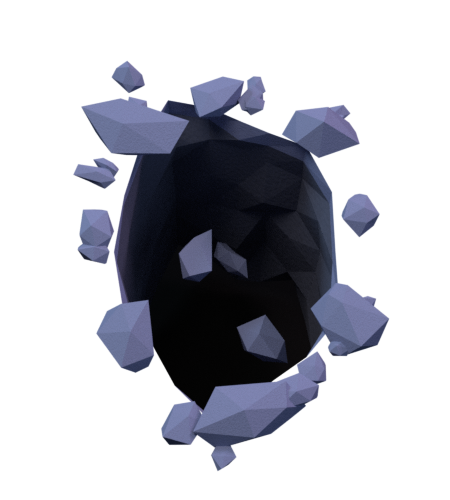
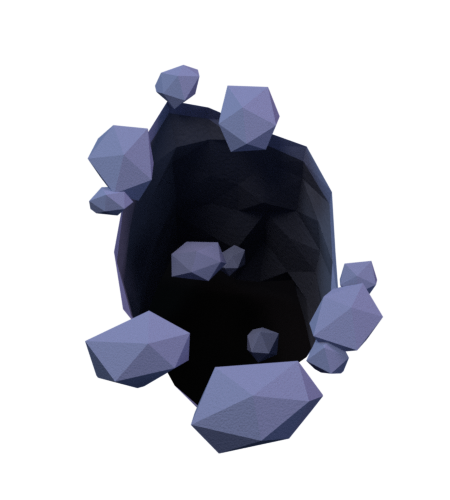
feat: draw fewer, larger rocks around and below sprite Collapse pits
Rocks around a pit and those fallen onto the floor below were small
enough to read as gravel in the game view. Use fewer, larger rocks with
less spiky shapes; the fallen rocks stay smaller than a Golem's rubble.

diff --git a/dev-samples/3d-stage1/build-pit.py b/dev-samples/3d-stage1/build-pit.py
@@ -45,16 +45,13 @@ SHAFT_COLOR = (0.10, 0.11, 0.16)
 EDGE_POINTS = 18
 # Rocks around the edge: (angle in degrees from east, counterclockwise;
 # distance from the centre as a fraction of the hole's radii; size).
-ROCKS = ((-80, 1.12, 0.13), (-55, 1.18, 0.08), (-110, 1.10, 0.09),
-         (-150, 1.08, 0.12), (175, 1.15, 0.07), (140, 1.05, 0.10),
-         (95, 1.02, 0.08), (40, 1.08, 0.11), (10, 1.20, 0.07),
-         (-20, 1.10, 0.10))
-RUBBLE = 14
+ROCKS = ((-75, 1.12, 0.17), (-140, 1.08, 0.14), (-20, 1.10, 0.13),
+         (150, 1.02, 0.12), (75, 1.00, 0.11))
+RUBBLE = 4
 # Rocks fallen onto the floor below a pit: (x as a fraction of the cell's
 # width from its centre, y as a fraction of its depth from the south edge,
 # size).
-FALLEN_ROCKS = ((-0.15, 0.42, 0.12), (0.17, 0.56, 0.09), (0.03, 0.27, 0.07),
-                (-0.06, 0.68, 0.06), (0.28, 0.32, 0.05))
+FALLEN_ROCKS = ((0.10, 0.27, 0.085), (-0.13, 0.44, 0.15), (0.17, 0.58, 0.105))
 SHAFT_RINGS = 5
 # The top of the wall, just below the edge, is lighter rock.
 LIP_DEPTH = 0.07
@@ -177,10 +174,10 @@ def boulder(name, location, size, flat=0.6):
     obj = bpy.context.object
     obj.name = name
     for v in obj.data.vertices:
-        v.co = v.co * rng.uniform(0.7, 1.2) + Vector([rng.uniform(-0.2, 0.2) * size
+        v.co = v.co * rng.uniform(0.85, 1.15) + Vector([rng.uniform(-0.12, 0.12) * size
                                                       for _ in range(3)])
         v.co.z = max(v.co.z, -0.35 * size)
-    obj.scale = (rng.uniform(1.0, 1.5), rng.uniform(0.7, 1.1), flat * rng.uniform(0.8, 1.2))
+    obj.scale = (rng.uniform(1.0, 1.3), rng.uniform(0.8, 1.1), flat * rng.uniform(0.8, 1.2))
     obj.rotation_euler = (rng.uniform(-0.15, 0.15), rng.uniform(-0.15, 0.15),
                           rng.uniform(0, 2 * math.pi))
     obj.data.materials.append(rock)
@@ -195,7 +192,7 @@ for n, (deg, dist, size) in enumerate(ROCKS):
 # Rubble between them.
 for n in range(RUBBLE):
     a = rng.uniform(0, 2 * math.pi)
-    size = rng.uniform(0.03, 0.05)
+    size = rng.uniform(0.05, 0.07)
     p = edge_point(a, edge_radius(a) * rng.uniform(1.04, 1.3), 0.0)
     boulder('Rubble %d' % n, (p.x, p.y, 0.2 * size), PIT_SCALE * size)
 
